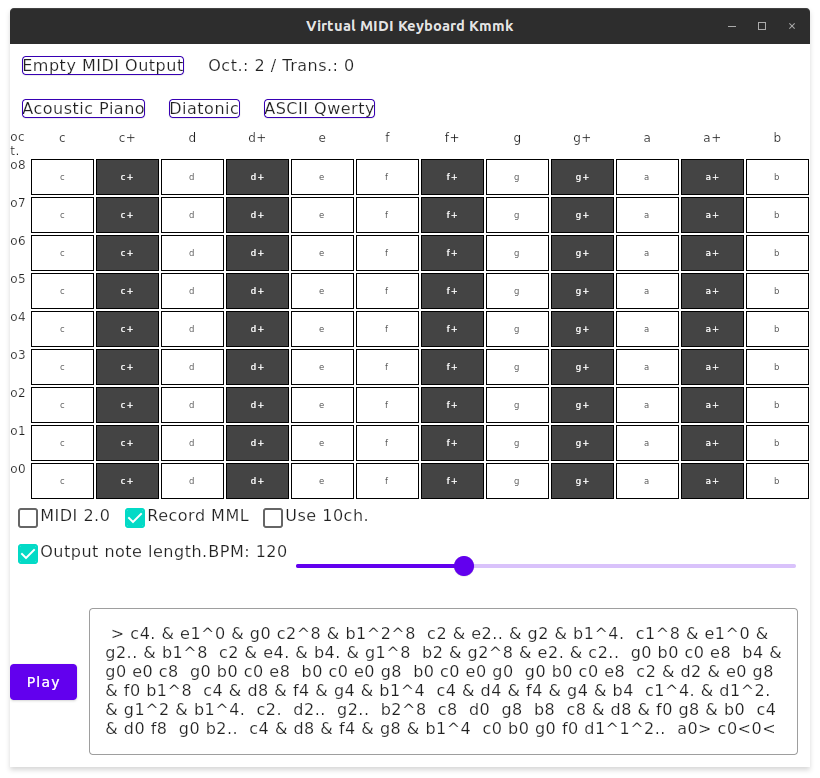
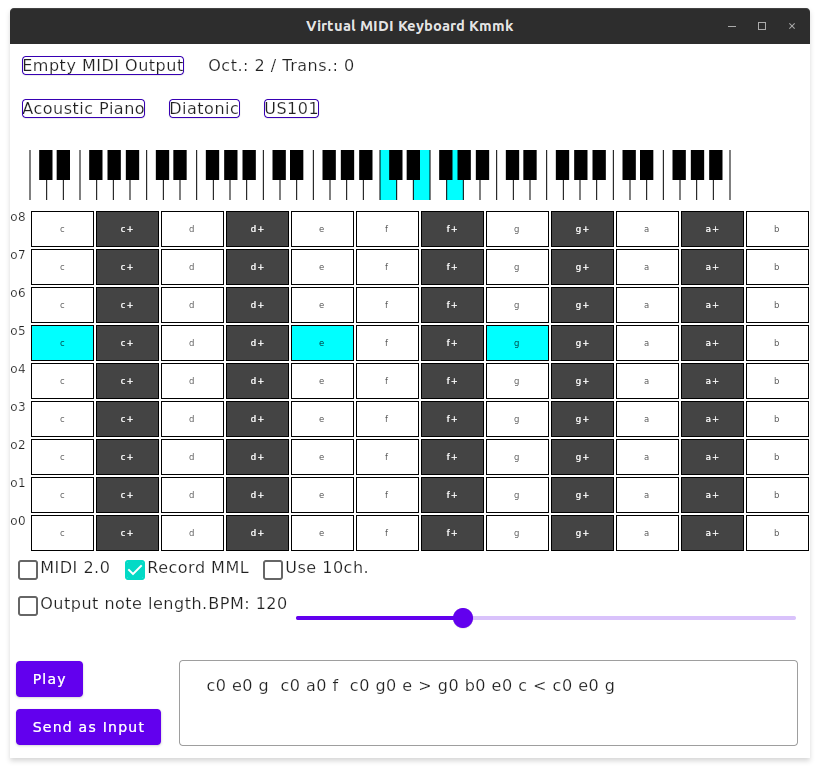
implemented musical keyboard view so that we can intuitively check notes.
Removed note labels on the top as they were extraneous now (and confusing
after we got musical keyboard).

diff --git a/common/src/commonMain/kotlin/dev/atsushieno/kmmk/MidiKeyboard.kt b/common/src/commonMain/kotlin/dev/atsushieno/kmmk/MidiKeyboard.kt
@@ -1,9 +1,11 @@
 package dev.atsushieno.kmmk
 
+import androidx.compose.foundation.Canvas
 import androidx.compose.foundation.border
 import androidx.compose.foundation.clickable
 import androidx.compose.foundation.focusable
 import androidx.compose.foundation.layout.Column
+import androidx.compose.foundation.layout.ColumnScope
 import androidx.compose.foundation.layout.Row
 import androidx.compose.foundation.layout.padding
 import androidx.compose.foundation.layout.width
@@ -17,6 +19,7 @@ import androidx.compose.runtime.setValue
 import androidx.compose.ui.Modifier
 import androidx.compose.ui.focus.FocusRequester
 import androidx.compose.ui.focus.focusRequester
+import androidx.compose.ui.geometry.Offset
 import androidx.compose.ui.graphics.Color
 import androidx.compose.ui.input.key.*
 import androidx.compose.ui.input.pointer.PointerEventPass
@@ -26,7 +29,10 @@ import androidx.compose.ui.unit.dp
 import androidx.compose.ui.unit.sp
 import kotlinx.coroutines.GlobalScope
 import kotlinx.coroutines.launch
-
+import androidx.compose.foundation.layout.height
+import androidx.compose.foundation.layout.width
+import androidx.compose.ui.Alignment
+import androidx.compose.ui.geometry.Size
 
 private fun isWhiteKey(key: Int) = when (key) { 0, 2, 4, 5, 7, 9, 11 -> true else -> false }
 
@@ -62,7 +68,7 @@ fun KeyboardRow(kmmk: KmmkComponentContext, octave: Int) {
                     }
                 },
                 colors = ButtonDefaults.textButtonColors(
-                    backgroundColor = if(kmmk.noteOnStates[note] > 0) Color.Yellow
+                    backgroundColor = if(kmmk.noteOnStates[note] > 0) Color.Cyan
                         else if(isWhiteKey(key)) Color.White else Color.DarkGray,
                     contentColor = if(kmmk.noteOnStates[note] > 0) Color.Black
                         else if(isWhiteKey(key)) Color.DarkGray else Color.White),
@@ -91,7 +97,7 @@ fun isCursorEventHandled(evt: KeyEvent, kmmk: KmmkComponentContext): Boolean {
 }
 
 @Composable
-fun MidiKeyboard(kmmk: KmmkComponentContext) {
+fun MidiKeyboardButtons(kmmk: KmmkComponentContext) {
     val focusRequester = remember { FocusRequester() }
     val activeKeys = remember { Array (256) {false} }
 
@@ -120,19 +126,60 @@ fun MidiKeyboard(kmmk: KmmkComponentContext) {
         .focusable()
         .clickable { focusRequester.requestFocus() }
     ) {
-        Row {
-            Text(text = "oct.", fontSize = headerTextSize,
-                modifier = Modifier.width(rowHeaderWidth))
-            for (key in 0..11) {
-                Text(text = kmmk.noteNames[key % 12], fontSize = headerTextSize, textAlign = TextAlign.Center,
-                    modifier = Modifier.weight(1.0f).padding(keyPaddingWidth)
-                )
-            }
-        }
         val minOctave = 0
         val maxOctave = 8
         for (octave in (minOctave..maxOctave).reversed()) {
             KeyboardRow(kmmk, octave)
+        }
+    }
+}
+
+private val isBlackKeyFlags = arrayOf(false, true, false, true, false, false, true, false, true, false, true, false)
+private val blackKeyOffsets = arrayOf(0.05f, 0.1f, 0f, 0.05f, 0.15f, 0.25f, 0f)
+private val whiteKeyOffsets = arrayOf(0, 0, 1, 1, 2, 3, 3, 4, 4, 5, 5, 6)
+private val whiteKeyToNotes = arrayOf(0, 2, 4, 5, 7, 9, 11)
+
+@Composable
+fun MusicalKeyboardView(kmmk: KmmkComponentContext) {
+    // FIXME: `Modifier.align(Alignment.CenterHorizontally)` results in: "undefined reference: align"
+    //  what can I import to use `Modifier.align()` that is defined *within* ColumnScope?
+    //  https://developer.android.com/reference/kotlin/androidx/compose/foundation/layout/ColumnScope?hl=en#(androidx.compose.ui.Modifier).align(androidx.compose.ui.Alignment.Horizontal)
+    Column(modifier = Modifier.padding(20.dp, 20.dp)) {
+        Canvas(modifier = Modifier.width(700.dp).height(40.dp)) {
+            val octaves = 6
+            val numWhiteKeys = 7 * octaves
+
+            val wkWidth = size.width / numWhiteKeys
+            val bkWidth = wkWidth * 0.8f
+            val bkHeight = 30f
+
+            // We render white keys first, then black keys to overlay appropriately.
+            // If we render both in a single loop, then black keys might be incorrectly overdrawn by note-ons on the white keys.
+
+            for (i in 0 until numWhiteKeys) {
+                val x = i * wkWidth
+                val note = (kmmk.octaveShift.value + i / 7) * 12 + whiteKeyToNotes[i % 7]
+                if (note in 0..127 && kmmk.noteOnStates[note] != 0) {
+                    drawRect(color = Color.Cyan, topLeft = Offset(x = x, y = 0f), size = Size(wkWidth, 50f))
+                }
+                drawLine(start = Offset(x = x, y = 0f), end = Offset(x = x, y = 50f), color = Color.Black)
+            }
+
+            for (i in 0 until numWhiteKeys) {
+                val x = i * wkWidth
+                val bkOffset = blackKeyOffsets[i % 7] * wkWidth
+                if (bkOffset != 0f) {
+                    val note = (kmmk.octaveShift.value + i / 7) * 12 + whiteKeyToNotes[i % 7] + 1
+                    val isNoteOn = note in 0..127 && kmmk.noteOnStates[note] != 0
+                    drawRect(
+                        color = if (isNoteOn) Color.Cyan else Color.Black,
+                        topLeft = Offset(x = x + bkOffset + wkWidth / 2, y = 0f),
+                        size = Size(bkWidth, bkHeight)
+                    )
+                }
+            }
+            // rightmost edge
+            drawLine(start = Offset(x = size.width, y = 0f), end = Offset(x = size.width, y = 50f), color = Color.Black)
         }
     }
 }

diff --git a/desktop/src/jvmMain/kotlin/main.kt b/desktop/src/jvmMain/kotlin/main.kt
@@ -13,7 +13,7 @@ import dev.atsushieno.ktmidi.RtMidiAccess
 import com.arkivanov.decompose.extensions.compose.jetbrains.rememberRootComponent
 
 fun main(args: Array<String>) = application {
-    val windowState = rememberWindowState(size = WindowSize(800.dp, 700.dp))
+    val windowState = rememberWindowState(size = WindowSize(800.dp, 750.dp))
     Window(state = windowState, onCloseRequest = ::exitApplication, title = "Virtual MIDI Keyboard Kmmk") {
         val kmmk = rememberRootComponent(factory = ::KmmkComponentContext)
         kmmk.midiDeviceManager.midiAccess =

diff --git a/android/src/main/java/dev/atsushieno/kmmk/MainActivity.kt b/android/src/main/java/dev/atsushieno/kmmk/MainActivity.kt
@@ -3,6 +3,9 @@ package dev.atsushieno.kmmk
 import android.os.Bundle
 import androidx.appcompat.app.AppCompatActivity
 import androidx.activity.compose.setContent
+import androidx.compose.foundation.layout.Column
+import androidx.compose.ui.Alignment
+import androidx.compose.ui.Modifier
 import dev.atsushieno.ktmidi.AndroidMidiAccess
 import com.arkivanov.decompose.extensions.compose.jetpack.rememberRootComponent
 

diff --git a/common/src/commonMain/kotlin/dev/atsushieno/kmmk/App.kt b/common/src/commonMain/kotlin/dev/atsushieno/kmmk/App.kt
@@ -40,7 +40,8 @@ fun App(kmmk: KmmkComponentContext) {
     MaterialTheme {
         Column(modifier = Modifier.wrapContentHeight()) {
             AppSettingsView(kmmk)
-            MidiKeyboard(kmmk)
+            MusicalKeyboardView(kmmk)
+            MidiKeyboardButtons(kmmk)
             MmlPad(kmmk)
         }
     }
